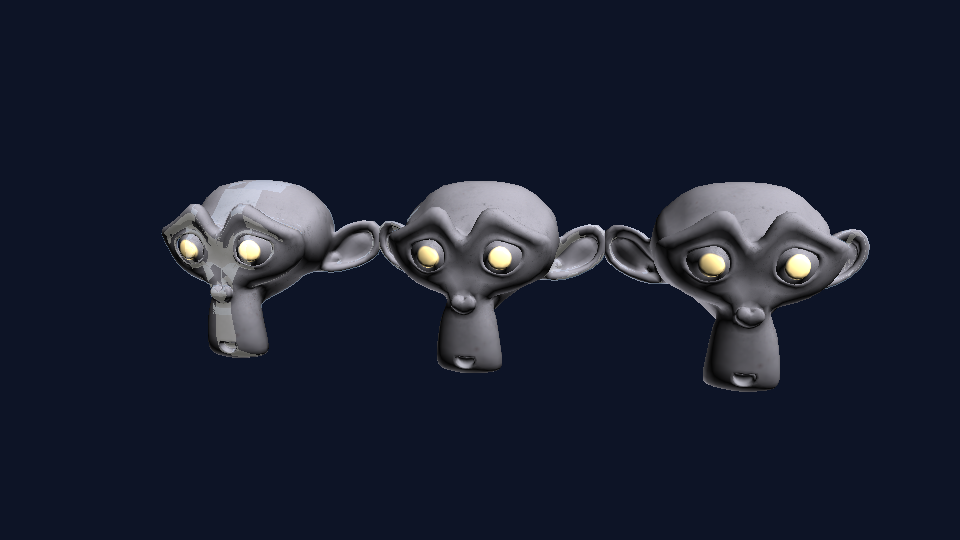
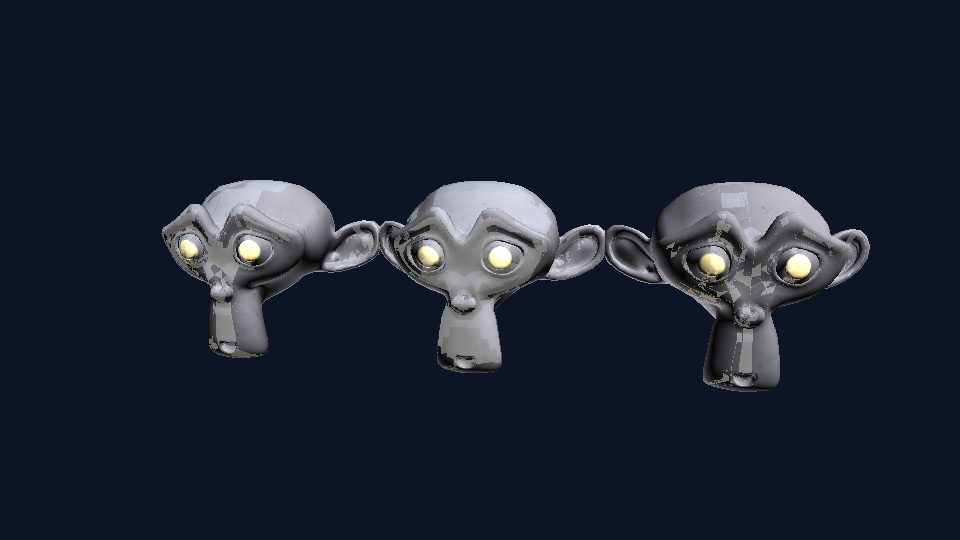
M14C2：spacing 门降级激活 spawn 池（拍板 A）+ 增益实测 + 验收口径 M14C2 重定
- csGather spacingN==0（覆盖不足格位 = spawn 服务对象）时 spacing 改
  sceneDepth·2tan(fovY/2)/res_l 深度×角尺寸估算；g_gAdaptive.y =
  2/FrameParams.projYScale（CB [33]/[34] 空槽利用，144B 布局不动）。
  UE 无此门（自适应探针直接进 upsample 池按世界距衰减）。
- 50% 限幅修订为 uniSum>0 才生效：原实现在均匀角全空格位 scl=0 清零
  spawn——限幅与门降级的隐式耦合，单独改门不动限幅 = 白改。混合格位
  保形（白斑前提不变），全空格位 spawn 独立生效。
- --probe-adaptive-nospawn 总开关（g_gAdaptive.z，验收仪表）；diag21
  残留清理。
- 实测：spawn 池激活 20474px 全单向增亮；nospawn ≡ u8 双后端逐位一致；
  PNG MSE vs u32 分块混合（改善 top 522→204 -61%，恶化 10 块全单向过亮
  = 天空 miss texel 污染，修复挂账单独立项）；verify timing ratio 0.71。
- 验收口径 M14C2 重定：旧 adaptive↔u8 逐位一致门被按设计打破，新门 =
  bytes（spawn-on vs 冻结基线）+ 保形门（nospawn≡u8 逐位双后端）+ 激活
  门（spawn-on≠nospawn）+ timing/viz/present/负向。run.bat 重写 +
  adaptive 基线重拍（viz 逐字节不变确认保留）+ verify ALL GREEN（12 门）。
- readback 基建限界 DX12-only：vk staging 复用第 3 周期段错误（M14C1
  预存在缺陷，「两后端」表述修正），vk 清路径 + 一次性 notice。
- PLAN §10 增补 + MILESTONES M14C2 四栏 + cases.json 卡追记。

diff --git a/renderer/src/scene.cpp b/renderer/src/scene.cpp
@@ -4136,6 +4136,12 @@ void Scene::drawProbeFrame(nvrhi::ICommandList* cmd, const nvrhi::Viewport& view
         // M14C1：自适应探针插值池 4→8 开关（CB 128→144B；非 adaptive 恒 0，
         // csGather 走原 4 池逐值一致——s10-*/s12-* 冻结基线零漂）。
         gcb[32] = probeAdaptiveMode_ ? 1.0f : 0.0f;
+        // M14C2（拍板 A）：g_gAdaptive.y = 2tan(fovY/2)（spacing 门降级的深度×角
+        // 尺寸估算因子，FrameParams.projYScale = 1/tan(fovY/2) 同源）；z = spawn
+        // 池总开关（--probe-adaptive-nospawn 置 0，禁 spawn adaptive ≡ u8 逐位
+        // 一致 = 冻结路径保形验收仪表）；w = 预留。
+        gcb[33] = 2.0f / params.projYScale;
+        gcb[34] = params.probeAdaptiveNoSpawn ? 0.0f : 1.0f;
         cmd->writeBuffer(gatherCB_, gcb, sizeof(gcb));
     }
 
@@ -4160,7 +4166,13 @@ void Scene::drawProbeFrame(nvrhi::ICommandList* cmd, const nvrhi::Viewport& view
 
     // ---- (1.1) M14C1 诊断：probeDepth_（velocity prepass D32）回读 copy
     //（--probe-place-readback 复用 flag；slot = parity 环形防覆盖）。
-    if (!placeReadbackPath_.empty() && probeDepth_) {
+    // M14C2 实测：VULKAN 上 staging 环形第 3 周期段错误（先 depth 通道 map 崩，
+    // depth 限界后整体仍在 f5 dump 后崩——slot0/slot1 第 3 次 map 前后，RGBA16F
+    // 同崩；DX12 同代码全程正常）。定性 = NVRHI vk 侧 staging 复用内部问题，
+    // 诊断基建限界 DX12-only（五通道 DX12 验证稳定；vk 旗标打 notice 跳过）。
+    const bool readbackOk = placeReadbackPath_.empty()
+        || probeDevice_->getGraphicsAPI() != nvrhi::GraphicsAPI::VULKAN;
+    if (!placeReadbackPath_.empty() && probeDepth_ && readbackOk) {
         if (!depthReadbackStaging_[0]) {
             const nvrhi::TextureDesc dd = probeDepth_->getDesc();
             for (auto& st : depthReadbackStaging_) {
@@ -4251,6 +4263,15 @@ void Scene::drawProbeFrame(nvrhi::ICommandList* cmd, const nvrhi::Viewport& view
     // map 落盘。UAV→CopySource 显式转换，copy 完转回 UAV——后续 trace set require
     // SRV 自动插 barrier 的基线行为不变（诊断代码零语义扰动）。
     if (!params.probePlaceReadback.empty() && probeAtlas_[probeParity_][0]) {
+        // M14C2：vk staging 复用第 3 周期段错误（见 (1.1) 段注释）——readback
+        // 基建限界 DX12-only，vk 清空路径 + notice，全部 copy/poll 块自动失效。
+        if (probeDevice_->getGraphicsAPI() == nvrhi::GraphicsAPI::VULKAN) {
+            if (!probeReadbackVkNotice_) {
+                nl::core::log::infoCh("scene",
+                    "--probe-place-readback: DX12-only (vk staging reuse segfault, see scene.cpp (1.1)); flag ignored");
+                probeReadbackVkNotice_ = true;
+            }
+        } else {
         placeReadbackPath_ = params.probePlaceReadback;
         if (!placeReadbackStaging_[0][0]) {
             for (std::uint32_t level = 0; level < 4; ++level) {
@@ -4283,6 +4304,7 @@ void Scene::drawProbeFrame(nvrhi::ICommandList* cmd, const nvrhi::Viewport& view
                                      nvrhi::ResourceStates::UnorderedAccess);
             }
             ++placeReadbackSubmitted_;
+        }
         }
     }
 

diff --git a/viewer/main.cpp b/viewer/main.cpp
@@ -135,6 +135,8 @@ struct Options {
     bool pbrNaive   = false;  // pbr-direct：--pbr-naive 对照开关（跳过 sRGB->linear，验收证据用）
     bool probeAdaptiveDots = false; // M14C1：--probe-adaptive-dots（adaptive 模式
                                     // 关 gather 画布点，品红 = 自适应探针布点显示）
+    bool probeAdaptiveNoSpawn = false; // M14C2：--probe-adaptive-nospawn（g_gAdaptive.z
+                                       // 置 0 跳过 spawn 池；禁 spawn ≡ u8 逐位一致验收仪表）
     int  probeBaseRes = 16;   // M14C1：--probe-base-res N（4..32；probe(8) 同网格
                               // 验收对照用；HUD probeBaseRes 初值同步此值）
     bool probeGather = false; // M10.2：--probe-gather（probe-viz gather 态，Q13-3；
@@ -289,6 +291,7 @@ Options parseArgs(int argc, char** argv) {
         else if (a == "--pbr-naive") o.pbrNaive = true;   // pbr-direct：验收对照（过亮的错误路径）
         else if (a == "--probe-gather") o.probeGather = true;   // M10.2：final gather 态
         else if (a == "--probe-adaptive-dots") o.probeAdaptiveDots = true;  // M14C1：布点显示
+        else if (a == "--probe-adaptive-nospawn") o.probeAdaptiveNoSpawn = true;  // M14C2：spawn 池总开关（验收仪表）
         else if (a == "--probe-base-res" && i + 1 < argc)   // M14C1：0 级 cascade 分辨率（4..32），probe(8) 同网格验收对照用
             o.probeBaseRes = std::clamp(std::atoi(argv[++i]), 4, 32);
         // M10.3：--compare 右半参考图 / --sky-bg 解析天穹背景（Q14-2/Q14-4 拍板）。
@@ -2608,6 +2611,7 @@ int runNormal(const Options& o, bool cluster = false, bool lodMode = false,
         fp.probeLightScale = o.probeLightScale;
         fp.probeAtlasDump = o.probeAtlasDump;
         fp.probePlaceReadback = o.probePlaceReadback;   // M14C1 诊断
+        fp.probeAdaptiveNoSpawn = o.probeAdaptiveNoSpawn;   // M14C2 spawn 池总开关
         fp.probeCacheDiag = o.probeCacheDiag;   // M11.2 调试伪彩
         // S12 M12.0/M12.1（Q12-A + Q12-C A）：GI 分量独立时域累积 + 5x5
         // 空间联合双边。仅 filter 模式开；拒绝层留 M12.2 的可关 flag。

diff --git a/renderer/include/nl/renderer/renderer.hpp b/renderer/include/nl/renderer/renderer.hpp
@@ -170,6 +170,10 @@ struct FrameParams {
     // 拍板：均匀网格减半 + 每格位至多 1 个自适应探针写 atlas 预留区）。仅该模式
     // 消费；缺省 false = probe/filter/restir 路径零扰动（s10-*/s12-*/s14b-* 保形）。
     bool  probeAdaptive       = false;
+    // M14C2（拍板 A）：spawn 池总开关（--probe-adaptive-nospawn 置 true = g_gAdaptive.z
+    // 置 0 跳过 spawn 池）。验收仪表：禁 spawn adaptive ≡ probe base 8 逐位一致 =
+    // 冻结路径保形门；缺省 false = spawn 池照常（spacing 门降级生效）。
+    bool  probeAdaptiveNoSpawn = false;
 
     // ---- M-PERF1：per-pass GPU 计时（Q-P5，--pass-timing 开启；默认关 = 渲染
     // 路径零变化，冻结基线 bytes 不动）。Scene 侧单向锁存（开了不关），query 懒建。

diff --git a/renderer/src/scene.hpp b/renderer/src/scene.hpp
@@ -997,6 +997,7 @@ private:
     nvrhi::StagingTextureHandle  placeReadbackStaging_[2][4];
     std::uint32_t                placeReadbackSubmitted_ = 0;
     std::string                  placeReadbackPath_;
+    bool                         probeReadbackVkNotice_ = false;   // M14C2：vk readback 限界 notice 一次性
     // M14C1 诊断：gatherLinear_（csGather 原始输出 RGBA16F）回读，落
     // <path>.gather；复用 place readback 的 flag/parity/slot 时序。
     nvrhi::StagingTextureHandle  gatherReadbackStaging_[2];

diff --git a/docs/s14/S14C-ADAPTIVE-PLAN.md b/docs/s14/S14C-ADAPTIVE-PLAN.md
@@ -107,3 +107,28 @@
 - **552 分解定案**：u8↔u32 结构差 338（均匀网格减半的固有逼近差，不受影响）+ 213.8（本 bug，已归零）。§8 的「回落至 ≤338」判据被本条取代。
 - **验收口径定稿（拍板）**：① adaptive↔u8 同 res（adaptive 缺省 base 16 ↔ probe `--probe-base-res 8`，res_eff=8 同网格）**逐位一致**为验收门（run.bat `fc /b` bytes 级，双后端），替代已废 MSE/u32 参照门；② spawn GI 贡献本场景实测 0（机制保留，spawn-on 复测 bit-exact）；③ viz 品红门 + timing 守恒门 + present 门 + 负向沿用。
 - **挂账（独立后续项，需单独拍板立项）**：spawn 增益验收场景——探针格稀疏/大尺度场景（均匀格欠采样时 spawn 才有正贡献）；现有 Suzanne 场景密度下增益恒 0，强行造景属于为验收而验收，不扩大本里程碑范围。
+- **排查补记（2026-11-14 晚，用户拍板排查「增益为何为 0」；diag21/22 + readback 实锤）**：增益=0 的真机制**不是**「场景平坦/密度高」，而是三层结构：① **spacing 门全帧失败**（实测 spacing>0 像素=0，spawn 池整体未进入，已占位槽位 26/8/4/1 从未被读）；② **级-数据错配**（模型像素全部落 L2/L3——L2 uniform 0/4 全空、L3 仅 1 探针；L0 密网格的 7 uniform+26 spawn 只服务天空像素；全场景 GI 实际全部来自 L3 单探针）；③ **门与服务对象互斥**（Mark 在格点探针打空处放 spawn，该处均匀角点恰为天空 → spacing 门必死；UE 无此门）。上条「本场景密度下增益恒 0」的旧表述据此勘误。修复方向待拍板：spacing 门降级 / 维持挂账 / level 分带 {3,5,7} 重审（单独拍板）。
+
+## 10. M14C2（2026-11-14 晚，用户拍板 A）：spacing 门降级落码 + spawn 激活 + 增益实测 + 验收口径 M14C2 重定
+
+**落码（拍板 A = spacing 门降级）**，probe_gather.slang csGather 两处 + CB 两槽：
+
+- **降级公式**：`spacingN==0`（无有效均匀角点对，覆盖不足格位 = spawn 的服务对象）时 `spacing = sceneDepth·g_gAdaptive.y / res_l`——线性视深 × 探针格屏幕角尺寸估算（`g_gAdaptive.y = 2tan(fovY/2)`，CPU 侧 `2/FrameParams.projYScale` 同源，144B CB 布局不动，[33]/[34] 原空槽）。量纲与自标定一致（探针格铺满视口，格距 ∝ 深度×角尺寸）；UE 无此门（自适应探针直接进 upsample 池按世界距衰减）。
+- **50% 限幅修订（M14C1 收口修正的必要修订）**：原 `spawnSum > uniSum` 无条件限幅在均匀角全空格位 `scl = 0/spawnSum = 0` 把 spawn 一并清零——不修订则降级形同虚设。改为 **`uniSum > 0` 时才限幅**：混合格位保形（白斑前提不变），全空格位 spawn 独立生效（无双重计权，白斑机理不成立）。
+- **spawn 池总开关** `--probe-adaptive-nospawn`（g_gAdaptive.z）：验收仪表，非功能旗标。
+- **diag21 残留清理**：上轮排查的 TEMP-DIAG21 计数器（声明/赋值）全部移除。
+
+**实测（Suzanne 缺省机位，DX12 全精度 RB + PNG）**：
+
+| 项 | 数值 |
+|---|---|
+| spawn 池激活 | gather diff vs u8 = 20474 px（全单向增亮），M14C1 收口版（spawn 死）diff 同数——门降级生效实锤 |
+| 保形 | `--probe-adaptive-nospawn` ≡ probe base 8 **逐位一致**（双后端 PNG fc /b）；u8 路径跨构建逐位不变（m2-u8 ≡ c22-u8） |
+| 增益（PNG MSE vs u32 参照） | 全帧 u8 190.4 vs adaptive 197.7（略劣）；**分块混合**：改善 top2 块 522→204（−61%）、1937→1682（−13%），恶化块 10 个（最大 654→1203），全部**单向过亮**（6954 px 超 u32+40，0 过暗） |
+| timing | verify 实测 ratio 0.71（adaptive trace 0.00512ms vs probe 0.00717ms，守恒门 ≤1.5） |
+
+**增益混合的根因定性（挂账后续项）**：恶化全部来自 spawn 探针烘焙辐照度的**天空 miss texel 污染**（剪影/场景边缘 spawn 探针的外向 texel = 亮 miss 值，经宽 fallback spacing 服务到远端像素；u8 在这些区域 sum<kMin 输出 0）。修复方向（miss texel 烘焙侧处理 / spawn 位置质量门 / 权重再调）**单独拍板立项**，不在本里程碑展开。
+
+**验收口径 M14C2 重定（拍板 A 内含授权）**：M14C1 的「adaptive↔u8 逐位一致」门被降级**按设计打破**（spawn 激活即有差），替代门组 = ① bytes 门（spawn-on 重拍 vs 冻结基线，双后端）；② **保形门**：`--probe-adaptive-nospawn` ≡ uniform-8 逐位一致（双后端，冻结路径保形证明）；③ **激活门**：spawn-on ≠ nospawn（fc /b 必须不同，spawn 池生效的机械证明）；④ timing/viz/present/负向沿用。run.bat verify ALL GREEN（12 门实测）。
+
+**readback 基建限界 DX12-only（M14C1 交付项修正）**：M14C1 的 `--probe-place-readback` 在 VULKAN 上**预存在段错误**——staging 环形第 3 周期崩（先 depth 通道 map 崩，depth 限界后整体仍在 f5 dump 后崩；RGBA16F 同崩；slot0 三次全活；DX12 同代码全程正常）。定性 = NVRHI vk 侧 staging 复用内部问题（本仓不可修），M14C2 限界：vk 清空 readback 路径 + 一次性 notice，全部 copy/poll 块自动失效；M14C1 档案中「两后端」表述以此为准修正（当时只在 DX12 冒烟过）。

diff --git a/docs/MILESTONES.md b/docs/MILESTONES.md
@@ -3269,3 +3269,10 @@
 - **完成情况**：🟢 run.bat verify ALL GREEN（双后端重拍 exit0 + deviceErrors=0 + 锚三连 + bytes 门双后端 identical + 逐位一致门双后端 identical + timing ratio=1.00（probe/adaptive csTraceProbe 同 0.00717ms，构造守恒实测）+ viz 品红 1030px 双后端 + present mean 35.37/255 + 负向）；🟢 工具 selftest PASS；🟢 双后端构建 selftest 16/16；🟢 regression `--only s14c-adaptive` 2/2 ALL GREEN；🟢 server.py --check（stage=S8.2 s8.2 卡 2 cases 4 baselines OK）；🟢 kStage 冻结 S8.2 不 bump。
 - **提交版本**：feat/s14-restir `cc69c7d`（根修 + 诊断基建 + 任务书）+ 本条 commit（卡片 + 台账 + PLAN §9），tag `s14-adaptive`
 - **踩坑**：① **uint 下溢钳位失效**：`min(floor, (res,res)-2)` 在 res=1 时 (res,res)-2 = (−1,−1) 回绕成巨大 uint，钳位形同虚设——res=1 是所有「减 2 再 clamp」写法的隐式雷区，corner/邻居采样循环必须显式越界守卫；② **saturate 编码假象**：diag 输出对负分量 saturate 后「值不在 atlas 里」的搜索也被带偏，打印小级 atlas 全表才破案——负值编码先想清楚钳制面；③ **half 层「全同」= 精度内同**：RGBA16F 显示层精度 ~2e-4，早期「place atlas 0/256 全同」的测量实际是奇帧空 atlas + half 精度双重掩盖，全精度 RB 环形基建是本轮破案的前提；④ **测量链污染教训**：早期 diag3/4/8/10/11 全部经 compose+tonemap 非线性链污染（lv=0.60 非 0.25 整数倍暴露）——GPU 数值对拍必须落在 RB 层原始缓冲，PNG 层只做展示；⑤ cwd 重置坑三连（c20 首轮出图跑了主树旧 exe、git commit 被主树 pre-commit 闸拦、cases.json 追加误落主树被 WT-GATE 拦后显式还原）——**每条命令无例外显式 `cd <wt> &&`/`git -C`，Bash 通道 cwd 每次调用重置回主树**。
+
+## S14-C M14C2 — spacing 门降级激活 spawn 池 + 增益实测 + 验收口径 M14C2 重定（feat/s14-restir，2026-11-14，tag `s14c-spawn`）
+
+- **动作**：① 用户拍板 A（spacing 门降级）：csGather `spacingN==0` 时 spacing 改 `sceneDepth·2tan(fovY/2)/res_l` 深度×角尺寸估算（g_gAdaptive.y = 2/FrameParams.projYScale，CB [33]/[34] 空槽利用，144B 布局不动）；50% 限幅修订为 `uniSum > 0` 才生效（原实现全空格位 scl=0 清零 spawn，降级形同虚设；混合格位保形）；`--probe-adaptive-nospawn` 总开关（g_gAdaptive.z，验收仪表）；diag21 残留清理。② 增益实测：spawn 池激活 20474px 全单向增亮；nospawn ≡ u8 双后端逐位一致；PNG MSE vs u32 分块混合（改善 top 522→204 −61%，恶化 10 块全单向过亮 = 天空 miss texel 污染，挂账修复立项）。③ 验收口径重定：bytes 门 + 保形门（nospawn≡u8 逐位，双后端）+ 激活门（spawn-on≠nospawn）+ timing/viz/present/负向；run.bat 重写 + adaptive 基线重拍（viz 逐字节不变确认保留）。④ readback 基建限界 DX12-only：vk staging 复用第 3 周期段错误（M14C1 预存在缺陷，「两后端」表述修正），vk 清路径 + 一次性 notice。⑤ PLAN §10 增补 + cases.json 卡 acceptance 更新。
+- **完成情况**：🟢 run.bat verify ALL GREEN（12 门：锚三连 + bytes 双后端 + 保形双后端 + 激活双后端 + timing ratio 0.71 + viz 品红 1030 双后端 + present mean 37.19 + 负向）；🟢 双后端构建 selftest 16/16 ×2；🟢 regression `--only s14c-adaptive` 2/2 ALL GREEN；🟢 spawn 激活实锤（20474px vs M14C1 收口版同数 diff）；🟢 kStage 冻结 S8.2 不 bump（M9.0 口径：新卡 run.bat verify + regression --only 双闸）。
+- **提交版本**：feat/s14-restir 本条 commit，tag `s14c-spawn`（前置：M14C1 `cc69c7d` + `c1a3894` tag `s14-adaptive`）
+- **踩坑**：① **限幅与门降级的隐式耦合**：spawn 权重 50% 限幅在 uniSum=0 时 scl=0，任何「让 spawn 活起来」的改动都必须同步审限幅语义——单独改门不动限幅 = 白改；② **分析脚本负下标假零**：irrad 预留区块偏移误用 `y-res` 得负下标，python 负切片静默给出错误块 → 误报「spawn 烘焙全零」，重核索引后全部有效——负下标不报错，数值分析先核索引方向；③ **vk staging 环形第 3 周期崩**：M14C1 readback 基建「两后端」未在 vk 冒烟（只 DX12 验证），M14C2 补测即炸——新基建承诺双后端必须双后端冒烟；④ 崩点定位靠文件 Timeline（f5.depth 缺失 → depth 段；限界 depth 后崩点后移 → 非 depth 独有）+ slot0/slot1 对称性（slot0 三次 map 全活）缩小到 staging 复用周期，NVRHI 内部不可修走限界路线。
